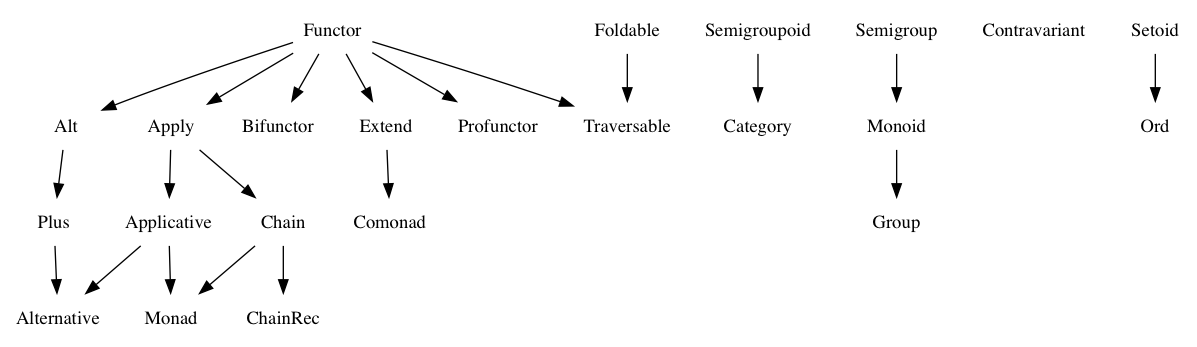
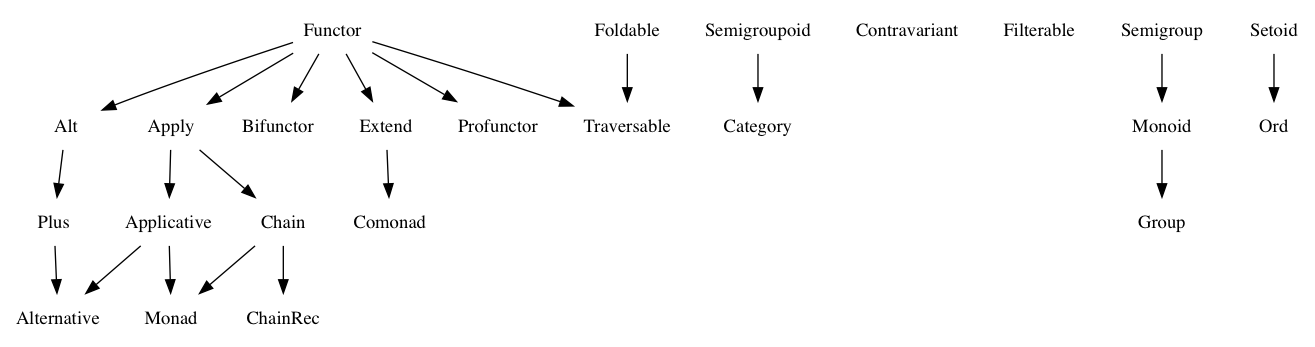
add Filterable algebra

diff --git a/test.js b/test.js
@@ -8,10 +8,12 @@ const alt = require('./laws/alt');
 const alternative = require('./laws/alternative');
 const applicative = require('./laws/applicative');
 const apply = require('./laws/apply');
+const category = require('./laws/category');
 const chain = require('./laws/chain');
 const chainRec = require('./laws/chainrec');
 const comonad = require('./laws/comonad');
 const extend = require('./laws/extend');
+const filterable = require('./laws/filterable');
 const foldable = require('./laws/foldable');
 const functor = require('./laws/functor');
 const group = require('./laws/group');
@@ -21,7 +23,6 @@ const ord = require('./laws/ord');
 const plus = require('./laws/plus');
 const semigroup = require('./laws/semigroup');
 const semigroupoid = require('./laws/semigroupoid');
-const category = require('./laws/category');
 const setoid = require('./laws/setoid');
 const traversable = require('./laws/traversable');
 
@@ -80,6 +81,12 @@ exports.comonad = {
 
 exports.extend = {
   associativity: test(extend.associativity(Id[fl.of])(equality)),
+};
+
+exports.filterable = {
+  distributivity: test(x => filterable.distributivity(equality)(Id[fl.of]([0, 1, 2, 3, 4]))(x => x % 2 === 0)(x => x > 0)),
+  identity: test(x => filterable.identity(equality)(Id[fl.of]([1, 2, 3]))),
+  annihilation: test(x => filterable.annihilation(equality)(Id[fl.of]([1, 2, 3]))(Id[fl.of]([4, 5, 6]))),
 };
 
 exports.foldable = {

diff --git a/laws/filterable.js b/laws/filterable.js
@@ -1,0 +1,34 @@
+'use strict';
+
+const {filter} = require('..');
+
+/**
+
+### Filterable
+
+1. `v.filter(x => p(x) && q(x))` is equivalent to `v.filter(p).filter(q)` (distributivity)
+2. `v.filter(x => true)` is equivalent to `v` (identity)
+3. `v.filter(x => false)` is equivalent to `w.filter(x => false)`
+   if `v` and `w` are values of the same Filterable (annihilation)
+
+**/
+
+const distributivity = eq => v => p => q => {
+  const a = v[filter](x => p(x) && q(x));
+  const b = v[filter](p)[filter](q);
+  return eq(a, b);
+};
+
+const identity = eq => v => {
+  const a = v[filter](x => true);
+  const b = v;
+  return eq(a, b);
+};
+
+const annihilation = eq => v => w => {
+  const a = v[filter](x => false);
+  const b = w[filter](x => false);
+  return eq(a, b);
+};
+
+module.exports = {distributivity, identity, annihilation};

diff --git a/internal/id.js b/internal/id.js
@@ -24,6 +24,11 @@ Id.prototype[fl.concat] = function(b) {
 
 // Monoid is not satisfiable since the type lacks a universal empty value
 
+// Filterable
+Id.prototype[fl.filter] = function(pred) {
+  return new Id(this.value[fl.filter](pred));
+};
+
 // Foldable
 Id.prototype[fl.reduce] = function(f, acc) {
   return f(acc, this.value);

diff --git a/internal/patch.js b/internal/patch.js
@@ -7,6 +7,9 @@ module.exports = () => {
   Array.prototype[fl.equals] = function(y) {
     return this.length === y.length && this.join('') === y.join('');
   };
+  Array.prototype[fl.filter] = function(pred) {
+    return this.filter(x => pred(x));
+  };
   Array.prototype[fl.map] = function(f) {
     return this.map(x => f(x));
   };

diff --git a/index.js b/index.js
@@ -13,6 +13,7 @@
     concat: 'fantasy-land/concat',
     empty: 'fantasy-land/empty',
     invert: 'fantasy-land/invert',
+    filter: 'fantasy-land/filter',
     map: 'fantasy-land/map',
     contramap: 'fantasy-land/contramap',
     ap: 'fantasy-land/ap',

diff --git a/README.md b/README.md
@@ -16,6 +16,7 @@ structures:
 * [Semigroup](#semigroup)
 * [Monoid](#monoid)
 * [Group](#group)
+* [Filterable](#filterable)
 * [Functor](#functor)
 * [Contravariant](#contravariant)
 * [Apply](#apply)
@@ -33,7 +34,7 @@ structures:
 * [Bifunctor](#bifunctor)
 * [Profunctor](#profunctor)
 
-<img src="figures/dependencies.png" width="888" height="257" />
+<img src="figures/dependencies.png" width="888" height="234" />
 
 ## General
 
@@ -327,6 +328,32 @@ A value which has a Group must provide an `invert` method. The
     g.invert()
 
 1. `invert` must return a value of the same Group.
+
+### Filterable
+
+1. `v.filter(x => p(x) && q(x))` is equivalent to `v.filter(p).filter(q)` (distributivity)
+2. `v.filter(x => true)` is equivalent to `v` (identity)
+3. `v.filter(x => false)` is equivalent to `w.filter(x => false)`
+   if `v` and `w` are values of the same Filterable (annihilation)
+
+#### `filter` method
+
+```hs
+filter :: Filterable f => f a ~> (a -> Boolean) -> f a
+```
+
+A value which has a Filterable must provide a `filter` method. The `filter`
+method takes one argument:
+
+    v.filter(p)
+
+1. `p` must be a function.
+
+    1. If `p` is not a function, the behaviour of `filter` is unspecified.
+    2. `p` must return either `true` or `false`. If it returns any other value,
+       the behaviour of `filter` is unspecified.
+
+2. `filter` must return a value of the same Filterable.
 
 ### Functor
 
@@ -836,7 +863,7 @@ to implement certain methods then derive the remaining methods. Derivations:
     function(f) {
       function Id(value) {
         this.value = value;
-      };
+      }
       Id.of = function(x) {
         return new Id(x);
       };
@@ -847,6 +874,25 @@ to implement certain methods then derive the remaining methods. Derivations:
         return new Id(this.value(b.value));
       };
       return this.traverse(x => Id.of(f(x)), Id.of).value;
+    }
+    ```
+
+  - [`filter`][] may be derived from [`of`][], [`chain`][], and [`zero`][]:
+
+    ```js
+    function(pred) {
+      var F = this.constructor;
+      return this.chain(x => pred(x) ? F.of(x) : F.zero());
+    }
+    ```
+
+  - [`filter`][] may be derived from [`concat`][], [`of`][], [`zero`][], and
+    [`reduce`][]:
+
+    ```js
+    function(pred) {
+      var F = this.constructor;
+      return this.reduce((f, x) => pred(x) ? f.concat(F.of(x)) : f, F.zero());
     }
     ```
 
@@ -873,12 +919,14 @@ be equivalent to that of the derivation (or derivations).
 [`equals`]: #equals-method
 [`extend`]: #extend-method
 [`extract`]: #extract-method
+[`filter`]: #filter-method
 [`lte`]: #lte-method
 [`map`]: #map-method
 [`of`]: #of-method
 [`promap`]: #promap-method
 [`reduce`]: #reduce-method
 [`sequence`]: #sequence-method
+[`zero`]: #zero-method
 
 ## Alternatives
 
